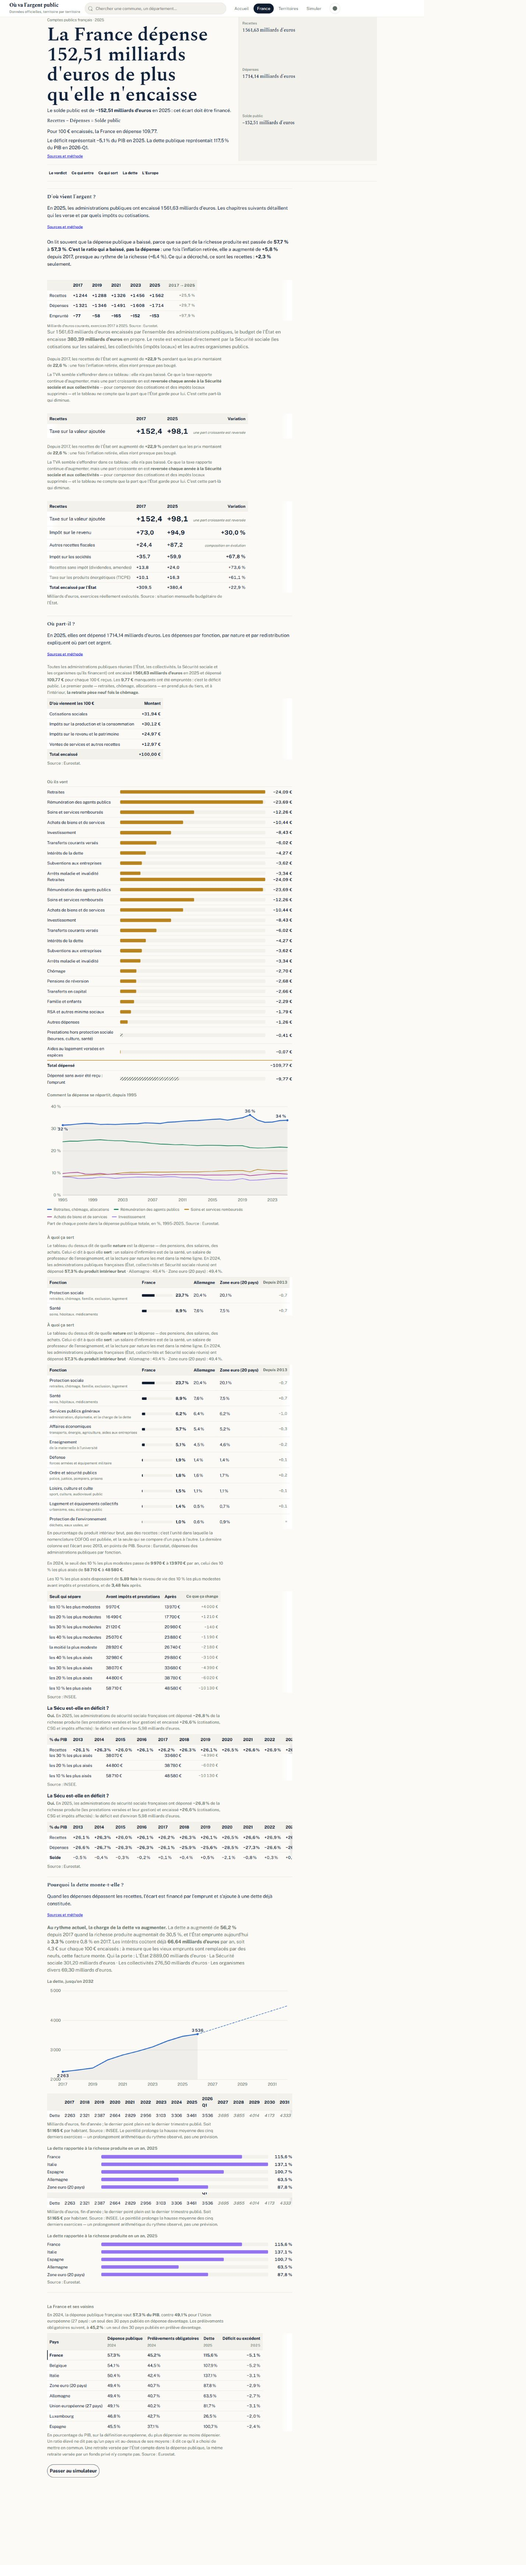
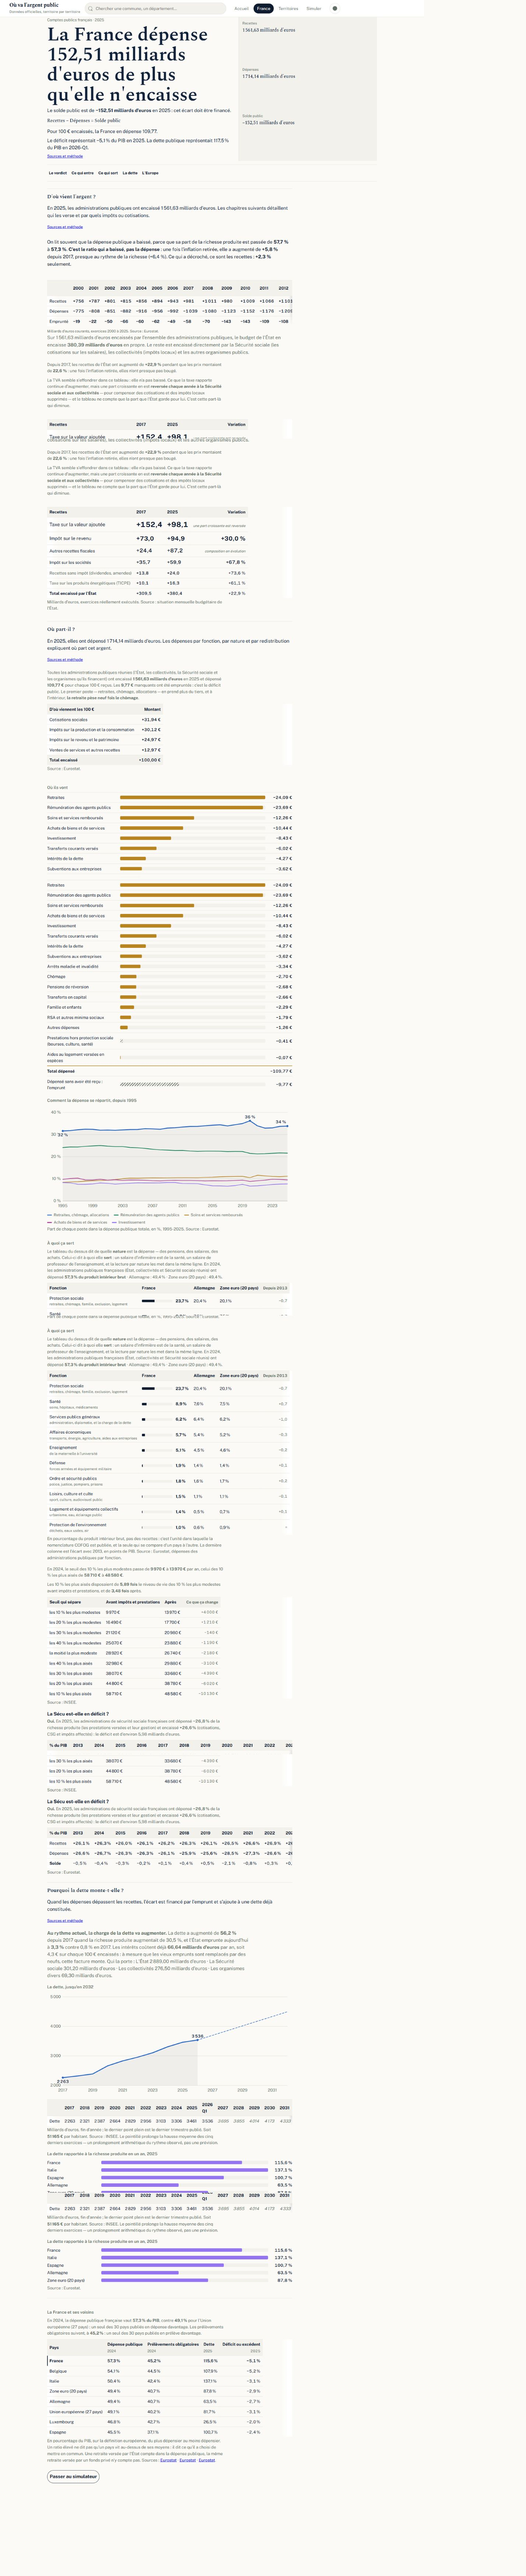
Actualise les preuves apres la revue finale

Changed region(s): [[0.0924, 0.0312, 0.5542, 0.9664], [0.4619, 0.904, 0.4927, 0.9352], [0.4619, 0.717, 0.4927, 0.7482]]

diff --git a/docs/verification/2026-08-26-verdict-france/verification-report.md b/docs/verification/2026-08-26-verdict-france/verification-report.md
@@ -1,14 +1,14 @@
 # Vérification visuelle — verdict France
 
 Date : 26 août 2026
-Correctif contrôlé : `1e5fbb2`
+Correctif contrôlé : `2813b45`
 
 ## Périmètre et méthode
 
-Le pilote a rechargé la version corrigée après avoir constaté des doublons sur
-une première version. Les captures ci-dessous sont les preuves pérennes de la
-revue visuelle. Les métriques de DOM consignées dans la matrice complètent les
-zones qui ne tiennent pas dans le haut d'une capture mobile.
+Le pilote a rechargé la version corrigée après la revue finale. Les captures
+ci-dessous sont les preuves pérennes de la revue visuelle. Les métriques de DOM
+consignées dans la matrice complètent les zones qui ne tiennent pas dans le haut
+d'une capture mobile.
 
 | Vue | Capture |
 | --- | --- |
@@ -19,18 +19,18 @@ zones qui ne tiennent pas dans le haut d'une capture mobile.
 
 ## Bilan — desktop 1440 × 900
 
-Métriques relevées : `clientWidth = scrollWidth = 1430 px`, hauteur de document
-`6962 px`. Le héros commence à `84 px`; les chapitres Entrées, Sorties, Dette et
-Europe commencent respectivement à `656`, `1808`, `5203` et `6346 px`.
+Métriques relevées : `clientWidth = scrollWidth = 1440 px`, hauteur de document
+`6959 px`. Le héros commence à `84 px`; les chapitres Entrées, Sorties, Dette et
+Europe commencent respectivement à `656`, `1827`, `5211` et `6344 px`.
 `methodText = false`.
 
 | Critère | Preuve | Résultat |
 | --- | --- | --- |
-| Verdict d'abord | Le héros en deux colonnes (`1120 × 488 px`) ouvre la page avec « La France dépense 152,51 milliards d'euros de plus qu'elle n'encaisse ». | Validé |
+| Verdict d'abord | Le héros en deux colonnes ouvre la page avec « La France dépense 152,51 milliards d'euros de plus qu'elle n'encaisse ». | Validé |
 | Calcul visible | L'équation « Recettes − Dépenses = Solde public » et les trois montants sont immédiatement sous le verdict. | Validé |
 | Sections ouvertes | Navigation et chapitre « D'où vient l'argent ? » suivent le héros; les chapitres suivants sont présents dans la page entière. | Validé |
-| Historique lisible | Les séries historiques des dépenses et de la dette sont visibles dans la capture pleine page. | Validé |
-| Europe lisible | Le comparatif « La France et ses voisins » est visible à `6346 px`, avec les pays et agrégats européens. | Validé |
+| Historique lisible | La table visible couvre les exercices `2000` à `2025` (26 exercices) pour dépenses, recettes et solde ; la narration conserve explicitement sa comparaison `2017`–`2025`. | Validé |
+| Europe lisible et sourcée | Le comparatif « La France et ses voisins » est visible à `6344 px`, avec les pays et agrégats européens. Ses trois liens mènent aux fiches `/sources/#eurostat-gov-10a-exp-1ltka7k`, `/sources/#eurostat-gov-10a-taxag-1f0o6e2` et `/sources/#eurostat-gov-10dd-edpt1-45pd0a`. | Validé |
 | Aucune méthode dans le flux | `methodText = false`; aucun bloc méthodologique n'apparaît dans le bilan. | Validé |
 | CTA Bilan | « Passer au simulateur » est visible, avec destination `/simulateur`. | Validé |
 
@@ -38,19 +38,19 @@ Europe commencent respectivement à `656`, `1808`, `5203` et `6346 px`.
 
 | Critère | Preuve | Résultat |
 | --- | --- | --- |
-| Bilan sans débordement | `clientWidth = scrollWidth = 380 px`; héros `348 × 482,5 px`, en une colonne. | Validé |
-| Bilan lisible | Une seule occurrence des recettes est visible dans le héros; aucune troncature n'a été observée. L'historique (`348 × 1467,6 px`) et l'Europe (`348 × 744,4 px`) restent dans le flux; les tableaux plus larges ont leurs conteneurs défilants. | Validé |
-| Actions du Bilan à 44 px | Onglets du bilan et CTA mesurent `44 px` de haut. | Validé |
-| Navigation principale à 44 px | Les actions de navigation principale mesurent `44 px` de haut. | Validé |
+| Bilan sans débordement | `/bilan` a `clientWidth = scrollWidth = 390 px`; le héros mesure `358 × 482,5 px`, en une colonne. | Validé |
+| Bilan lisible | L'historique (`358 × 457,8 px`) et l'Europe (`358 × 712,3 px`) restent dans le flux; les tableaux plus larges ont leurs conteneurs défilants. Les trois liens de sources Europe sont présents. | Validé |
+| CTA Bilan à 44 px | « Passer au simulateur » mesure `44 px` de haut. | Validé |
 | Sources sans débordement | `/sources/` a `clientWidth = scrollWidth = 380 px`. | Validé |
-| Sources accessible | Un unique `<main>` est présent; le titre « Sources et méthode », la méthode et le registre sont présents. Le lien Accueil mesure `44 px` de haut. | Validé |
+| Sources accessible | Un unique `<main>` est présent. L'outline est « Sources et méthode » (H1), puis « Les sources », « La méthode » et « La grille de verdicts » (H2), suivis de leurs intertitres (H3). | Validé |
 | Territoire Paris sans débordement | `/territoire?...territoire=75056` a `clientWidth = scrollWidth = 380 px`. | Validé |
 | Briefing territoire absent | Le briefing est absent (`0`). | Validé |
-| Fiche Paris présente | La fiche affiche Paris et « 2 103 778 hab ». | Validé |
+| Fiche Paris présente | La fiche Paris est présente. | Validé |
 | Cinq thèmes et carte accessibles | Budget, Fiscalité, Dette, Services, Trajectoire et « Voir sur la carte » sont présents; chacun mesure `44 px` de haut. | Validé |
 
 ## Conclusion
 
 Les contrôles exigés aux étapes 3 et 4 du plan sont couverts par les captures
 ci-dessus et leurs métriques associées. La revue porte explicitement sur le
-correctif `1e5fbb2` qui a supprimé les doublons constatés lors du premier essai.
+correctif `2813b45`, y compris l'historique étendu, les liens Europe vers les
+fiches Eurostat et la hiérarchie de titres de la page Sources.
